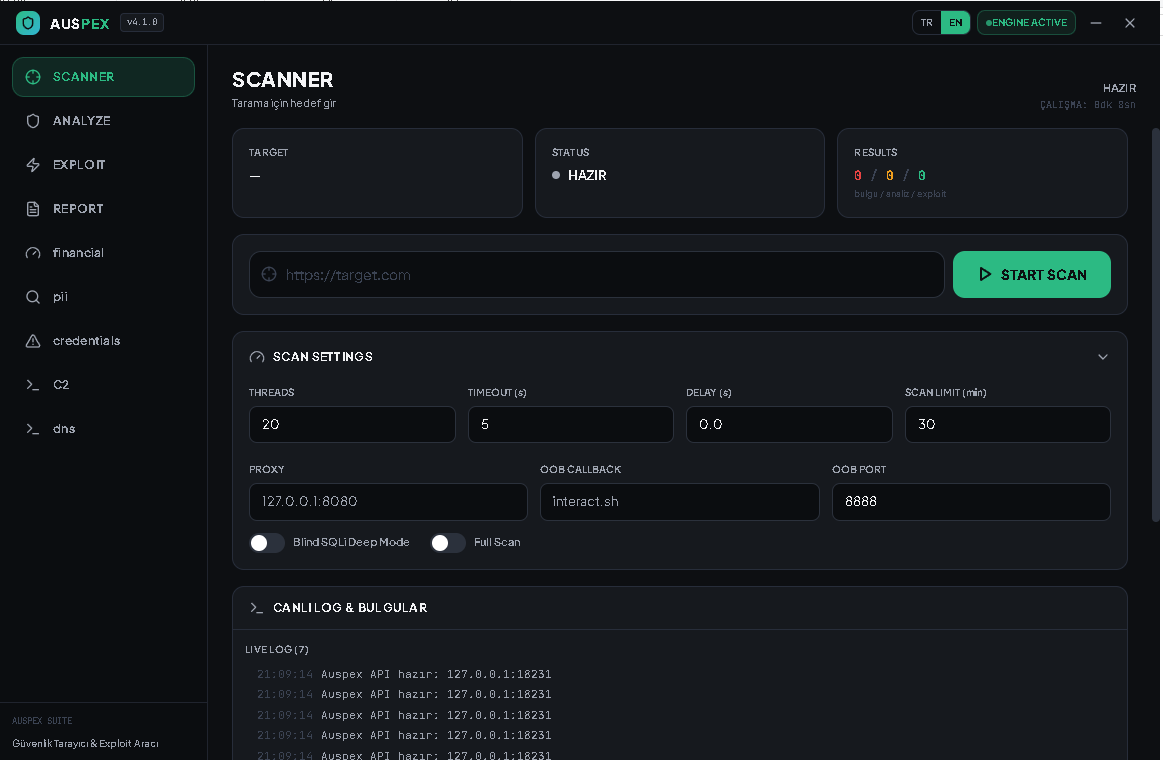
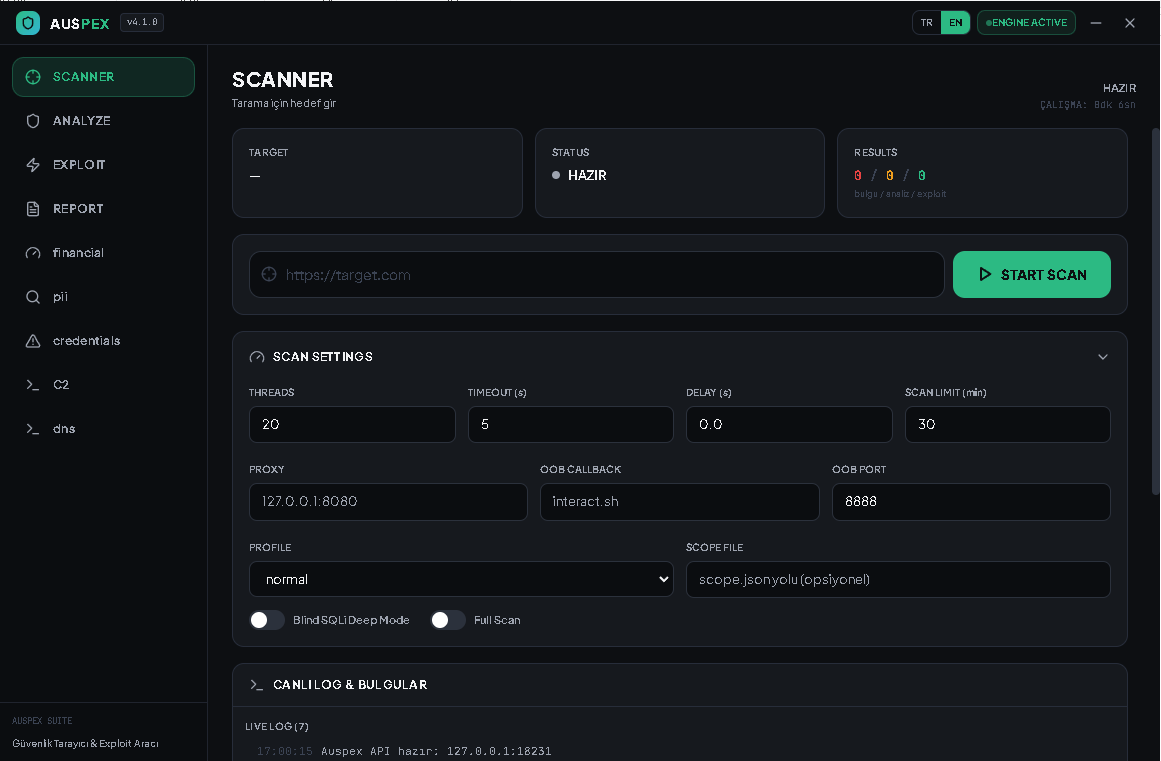
Update Auspex landing page claims

diff --git a/index.html b/index.html
@@ -4,7 +4,7 @@
 <meta charset="UTF-8" />
 <meta name="viewport" content="width=device-width, initial-scale=1.0" />
 <title>Auspex — Autonomous Web Security Scanner &amp; Exploit Suite</title>
-<meta name="description" content="Auspex is an autonomous web security scanner and exploit suite. 62 modules, WAF/TLS evasion, zero-touch loot chain, and a 20-minute self-limiting pipeline." />
+<meta name="description" content="Auspex is a Windows desktop tool for authorized web security assessments, combining 62 modules with automated analysis, validation attempts, evidence collection, and reporting." />
 <link rel="icon" type="image/png" href="assets/auspex.png" />
 <style>
   :root {
@@ -108,11 +108,12 @@
 
 <header class="hero wrap">
   <span class="eyebrow">Autonomous Web Security</span>
-  <h1>One target.<br /><span class="g">Zero operator input.</span></h1>
+  <h1>Configure once.<br /><span class="g">Automate the assessment.</span></h1>
   <p class="sub">
-    Auspex is an autonomous scanner and exploit suite that chains 62 security modules,
-    evades modern WAF and TLS fingerprinting, and runs a self-limiting 20-minute pipeline —
-    from a single portable Windows app.
+    Auspex is a Windows desktop tool for authorized web security assessments. After the target
+    and settings are configured, it can load locally available proxy lists, crawl the site,
+    run 62 modules, analyze findings, attempt relevant validation checks, and collect evidence
+    automatically when a check succeeds.
   </p>
   <div class="cta">
     <a class="btn btn-primary" href="#contact">Request a Demo</a>
@@ -128,54 +129,53 @@
 </section>
 <section id="features" class="wrap">
   <div class="kicker">Value Proposition</div>
-  <h2>Built to find what scanners miss</h2>
-  <p class="lead">Auspex doesn&rsquo;t just scan — it verifies, chains findings into action, and extracts real proof when a vulnerability is real. No false-positive noise, no babysitting.</p>
+  <h2>An automated web security workflow</h2>
+  <p class="lead">Auspex brings proxy-list ingestion, crawling, modular checks, finding-based analysis, relevant exploit-validation attempts, and reporting into one workflow. Successful checks can trigger automatic evidence and loot collection. False-positive reduction has been a focus of testing, but results still require review and can vary by target.</p>
 
   <div class="stat-row">
     <div class="stat"><div class="n">62</div><div class="l">Security modules</div></div>
-    <div class="stat"><div class="n">20m</div><div class="l">Self-limiting pipeline</div></div>
-    <div class="stat"><div class="n">JA3/JA4</div><div class="l">TLS fingerprint rotation</div></div>
-    <div class="stat"><div class="n">0</div><div class="l">Manual steps after start</div></div>
+    <div class="stat"><div class="n">Per-module</div><div class="l">Timeout handling</div></div>
+    <div class="stat"><div class="n">Auto</div><div class="l">Workflow after configuration</div></div>
   </div>
 
   <div class="grid">
     <div class="card">
       <div class="icon">&#128737;&#65039;</div>
       <h3>62 Security Modules</h3>
-      <p>OWASP coverage, API security, JWT attacks, SQLi, SSTI, SSRF, XXE, IDOR, LFI/RFI, request smuggling, race conditions and more — in one pass.</p>
+      <p>A broad set of web and API security checks runs as part of one configured assessment. Module coverage and results depend on the target and scan settings.</p>
     </div>
     <div class="card">
       <div class="icon">&#127760;</div>
-      <h3>WAF &amp; TLS Evasion</h3>
-      <p>curl_cffi-driven JA3/JA4 fingerprint rotation impersonates real browsers, with adaptive payload obfuscation and a live-first proxy pool.</p>
+      <h3>Timeout-aware checks</h3>
+      <p>Requests and modules use time limits. A timed-out check may be incomplete or skipped, and should be reviewed in the final results.</p>
     </div>
     <div class="card">
       <div class="icon">&#9203;</div>
-      <h3>20-Minute Time Budget</h3>
-      <p>A hard watchdog ceiling means a scan can never hang. The scanner self-limits, and the exploit phase uses only the remaining time.</p>
+      <h3>Timeout-aware module queue</h3>
+      <p>The UI exposes a scan-time setting, while completion mode can run beyond that value to allow the module queue to progress. Individual modules have their own timeouts; a timed-out check may be incomplete while later checks continue.</p>
     </div>
     <div class="card">
       <div class="icon">&#128274;</div>
-      <h3>Zero-Touch Loot Chain</h3>
-      <p>The moment a JWT is broken, Auspex auto-discovers protected endpoints, follows pagination, and validates harvested data — no operator input.</p>
+      <h3>Finding-based validation and loot</h3>
+      <p>Auspex analyzes findings, selects relevant checks, and attempts validation. When a check succeeds, follow-up evidence or loot collection can run automatically. JWT-related checks can lead to API discovery and data-retrieval attempts; complete database extraction is not guaranteed.</p>
     </div>
     <div class="card">
       <div class="icon">&#128640;</div>
       <h3>Autonomous Mode</h3>
-      <p>Enter a target and walk away. Scope fail-closed, adaptive rate limiting, and hybrid fallback keep the run safe and self-managing.</p>
+      <p>After the target and settings are entered, the workflow proceeds without routine operator input. Use only against systems you own or are explicitly authorized to assess.</p>
     </div>
     <div class="card">
       <div class="icon">&#128205;</div>
       <h3>False-Positive Hardening</h3>
-      <p>Baseline comparison, soft-200 catch-all detection, and content-hash verification filter out the noise so real findings stand out.</p>
+      <p>Baseline comparisons and response checks help reduce false positives. They do not eliminate them, so findings should be reviewed before being treated as confirmed.</p>
     </div>
   </div>
 </section>
 
 <section id="stack" class="wrap">
   <div class="kicker">Tech Stack</div>
-  <h2>Engineered for speed and stealth</h2>
-  <p class="lead">A native desktop app with a Python core, packaged into a single portable executable.</p>
+  <h2>Built for further development</h2>
+  <p class="lead">A Windows desktop application with a Python core and an Electron/React interface. The next owner can review, modify, and extend the codebase.</p>
   <div class="chips">
     <span class="chip">Python 3.9+</span>
     <span class="chip">AsyncIO</span>
@@ -192,7 +192,7 @@
   <div class="cta-band">
     <div class="kicker">Get Access</div>
     <h2>See Auspex in action</h2>
-    <p>Request a private demo or ask about acquisition. No source code is published — access is shared only under NDA.</p>
+    <p>For authorized security testing only. Actual scan duration can exceed the configured scan-time value in completion mode. Some checks may time out or remain incomplete, and database data retrieval is not guaranteed. Request a private demo or ask about acquisition. Product source code can be reviewed privately during buyer due diligence, subject to agreed terms.</p>
     <a class="btn btn-primary" href="mailto:contact@auspex.security?subject=Auspex%20Demo%20Request">Request a Demo</a>
   </div>
 </section>
